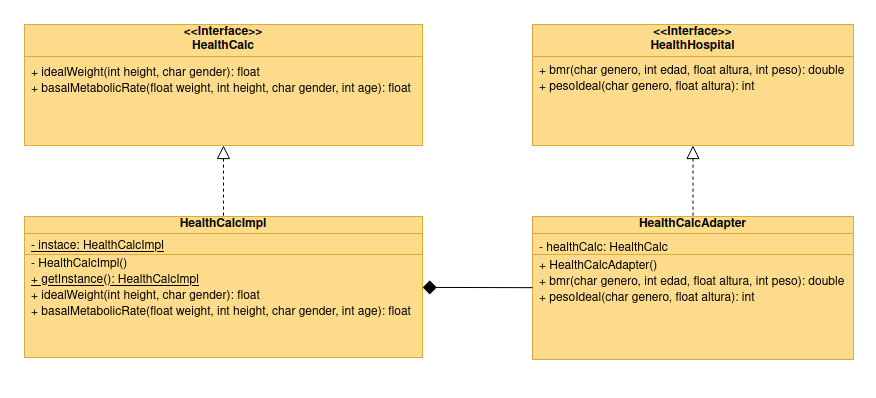
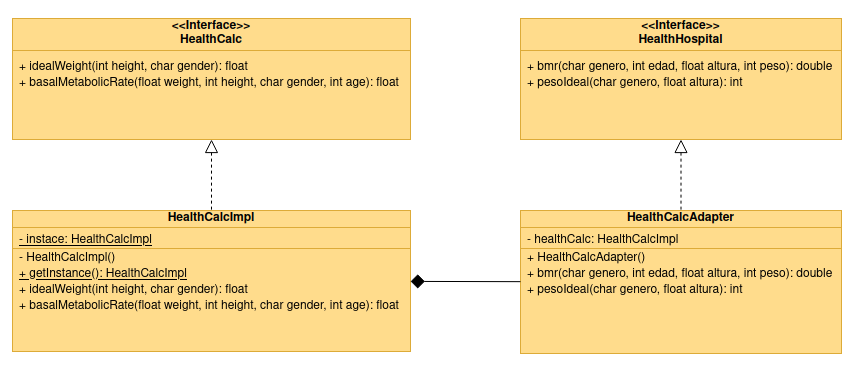
Refactorizacion tipo de variable en StatsProxy, se refleja el cambio en los diagramas UML también

Changed region(s): [[0.0, 0.4731, 1.0, 0.9758], [0.0, 0.0296, 0.486, 0.414], [0.6075, 0.0296, 1.0, 0.414]]

diff --git a/src/main/java/uma/StatsProxy.java b/src/main/java/uma/StatsProxy.java
@@ -5,7 +5,7 @@ import java.util.List;
 import java.util.stream.Collectors;
 
 public class StatsProxy implements HealthHospital, HealthStats {
-    private HealthCalcAdapter healthCalc;
+    private HealthHospital healthCalc;
     private List<Float> alturas;
     private List<Float> pesos;
     private List<Integer> edades;
@@ -13,7 +13,7 @@ public class StatsProxy implements HealthHospital, HealthStats {
     private int numHombres;
     private int numMujeres;
 
-    public StatsProxy(HealthCalcAdapter healthCalcAdapter) {
+    public StatsProxy(HealthHospital healthCalcAdapter) {
         this.healthCalc = healthCalcAdapter;
         this.alturas = new ArrayList<>();
         this.pesos = new ArrayList<>();
